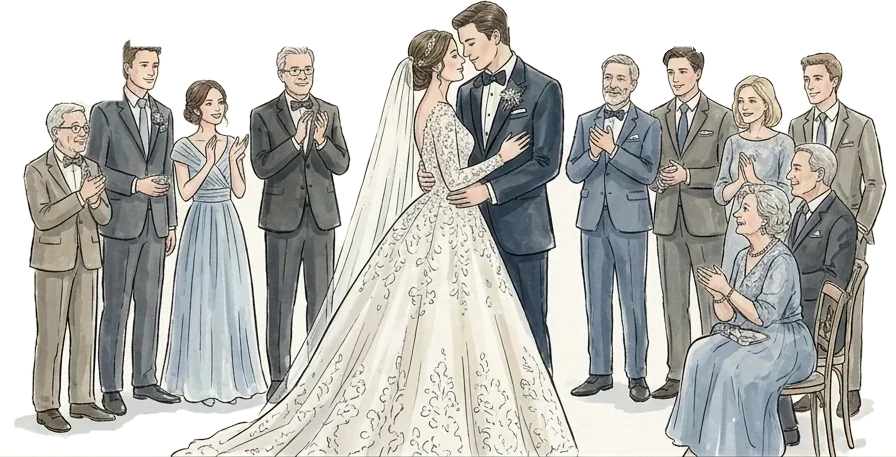
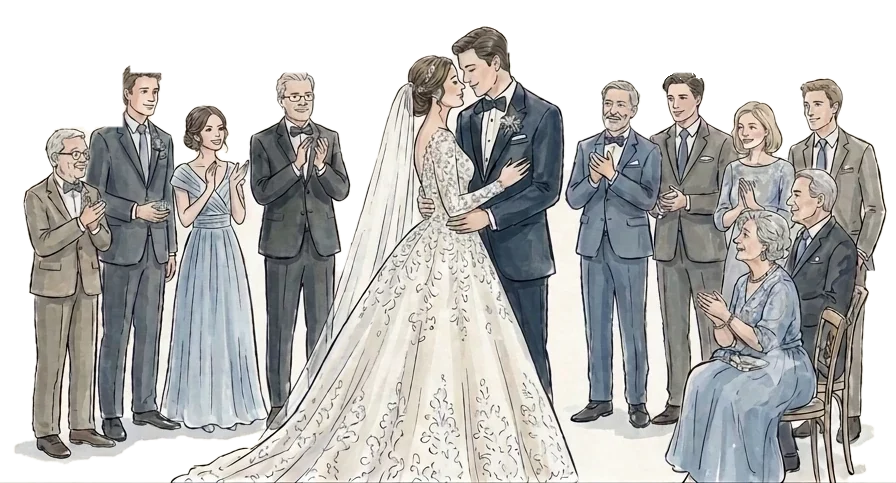
계좌 섹션 하객 일러스트 머리 잘림 수정 (#21)
원본 이미지에서 상단 여백을 두고 다시 잘라 신랑 머리가 잘리지 않게 함 (896x457 → 896x483).

Claude-Session: https://claude.ai/code/session_01GZp4QDPfZTQGyHBLHg3FEN

diff --git a/index.html b/index.html
@@ -342,7 +342,7 @@ document.documentElement.classList.add('js');
             </li>
           </ul>
     </div>
-    <img class="acct__guests" src="assets/img/acct-guests.webp" width="896" height="457" alt="" aria-hidden="true">
+    <img class="acct__guests" src="assets/img/acct-guests.webp" width="896" height="483" alt="" aria-hidden="true">
   </section>
 
 </main>
